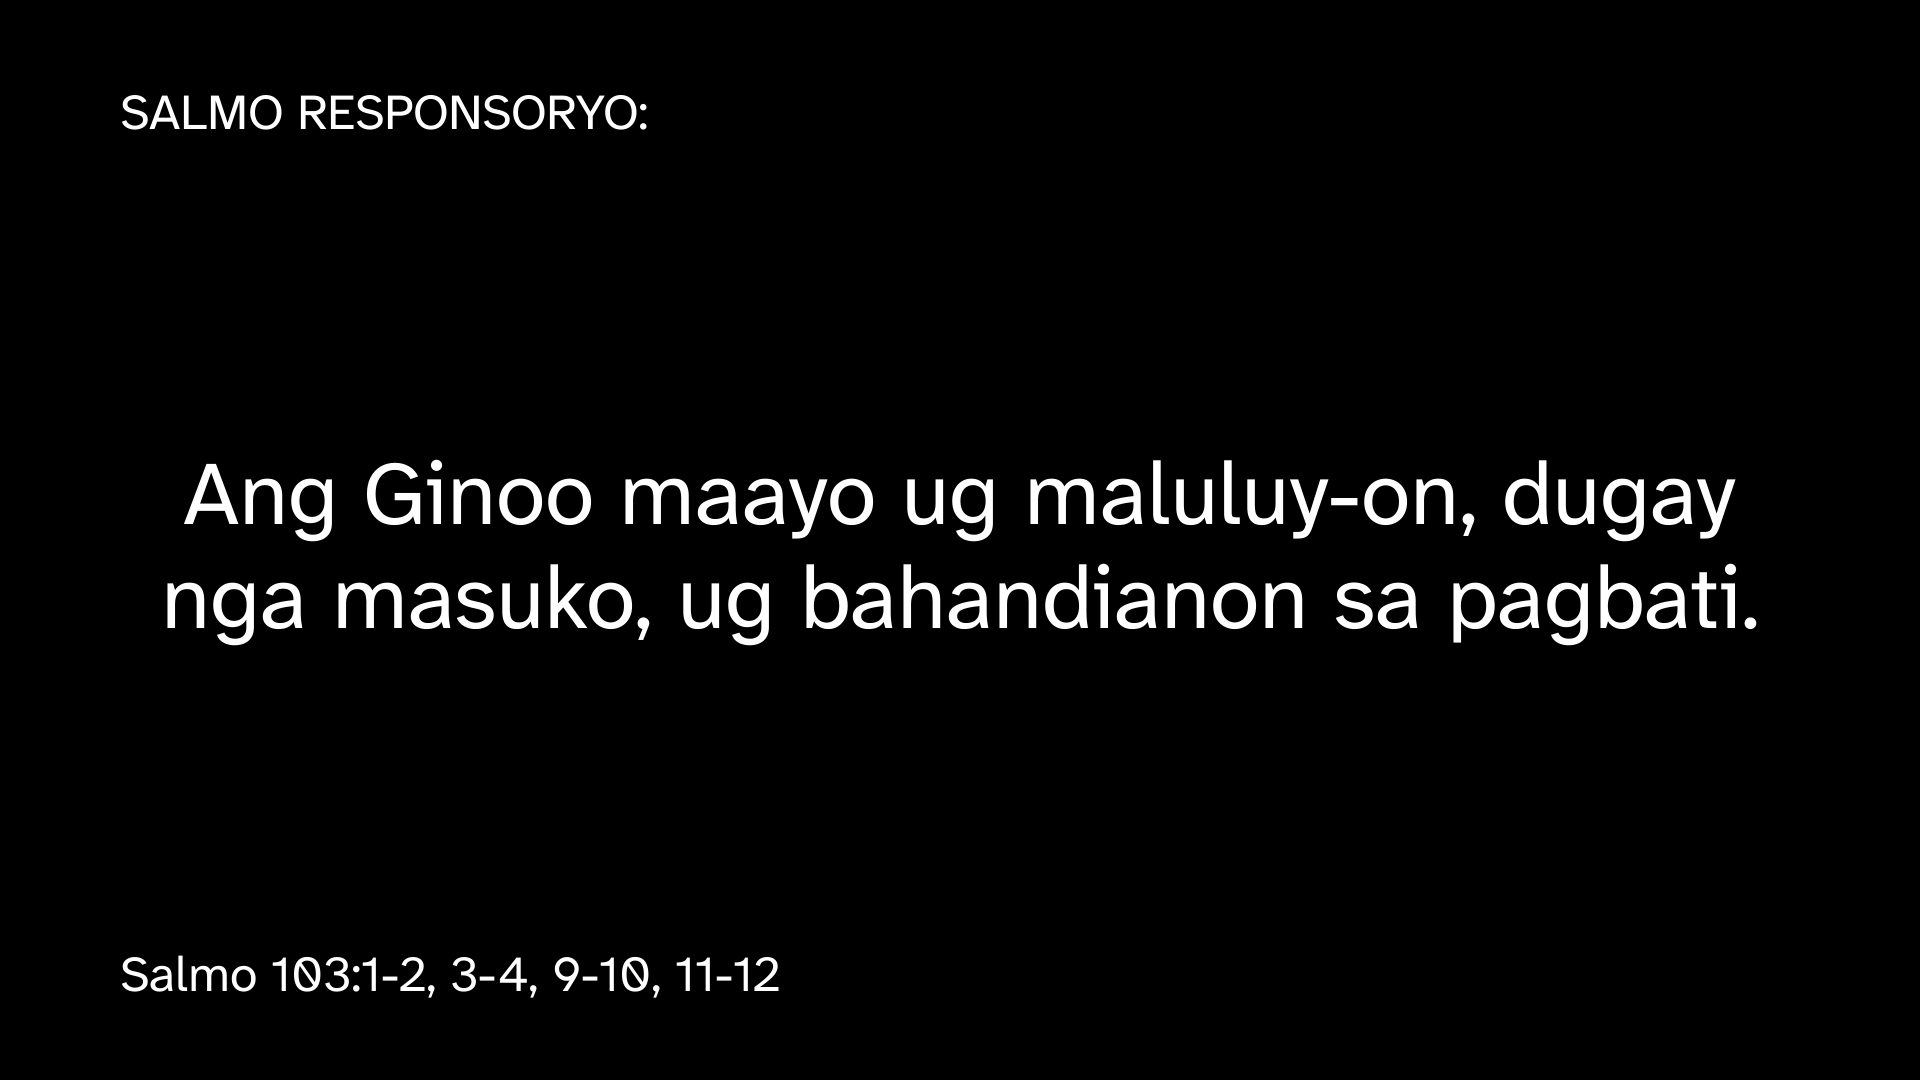
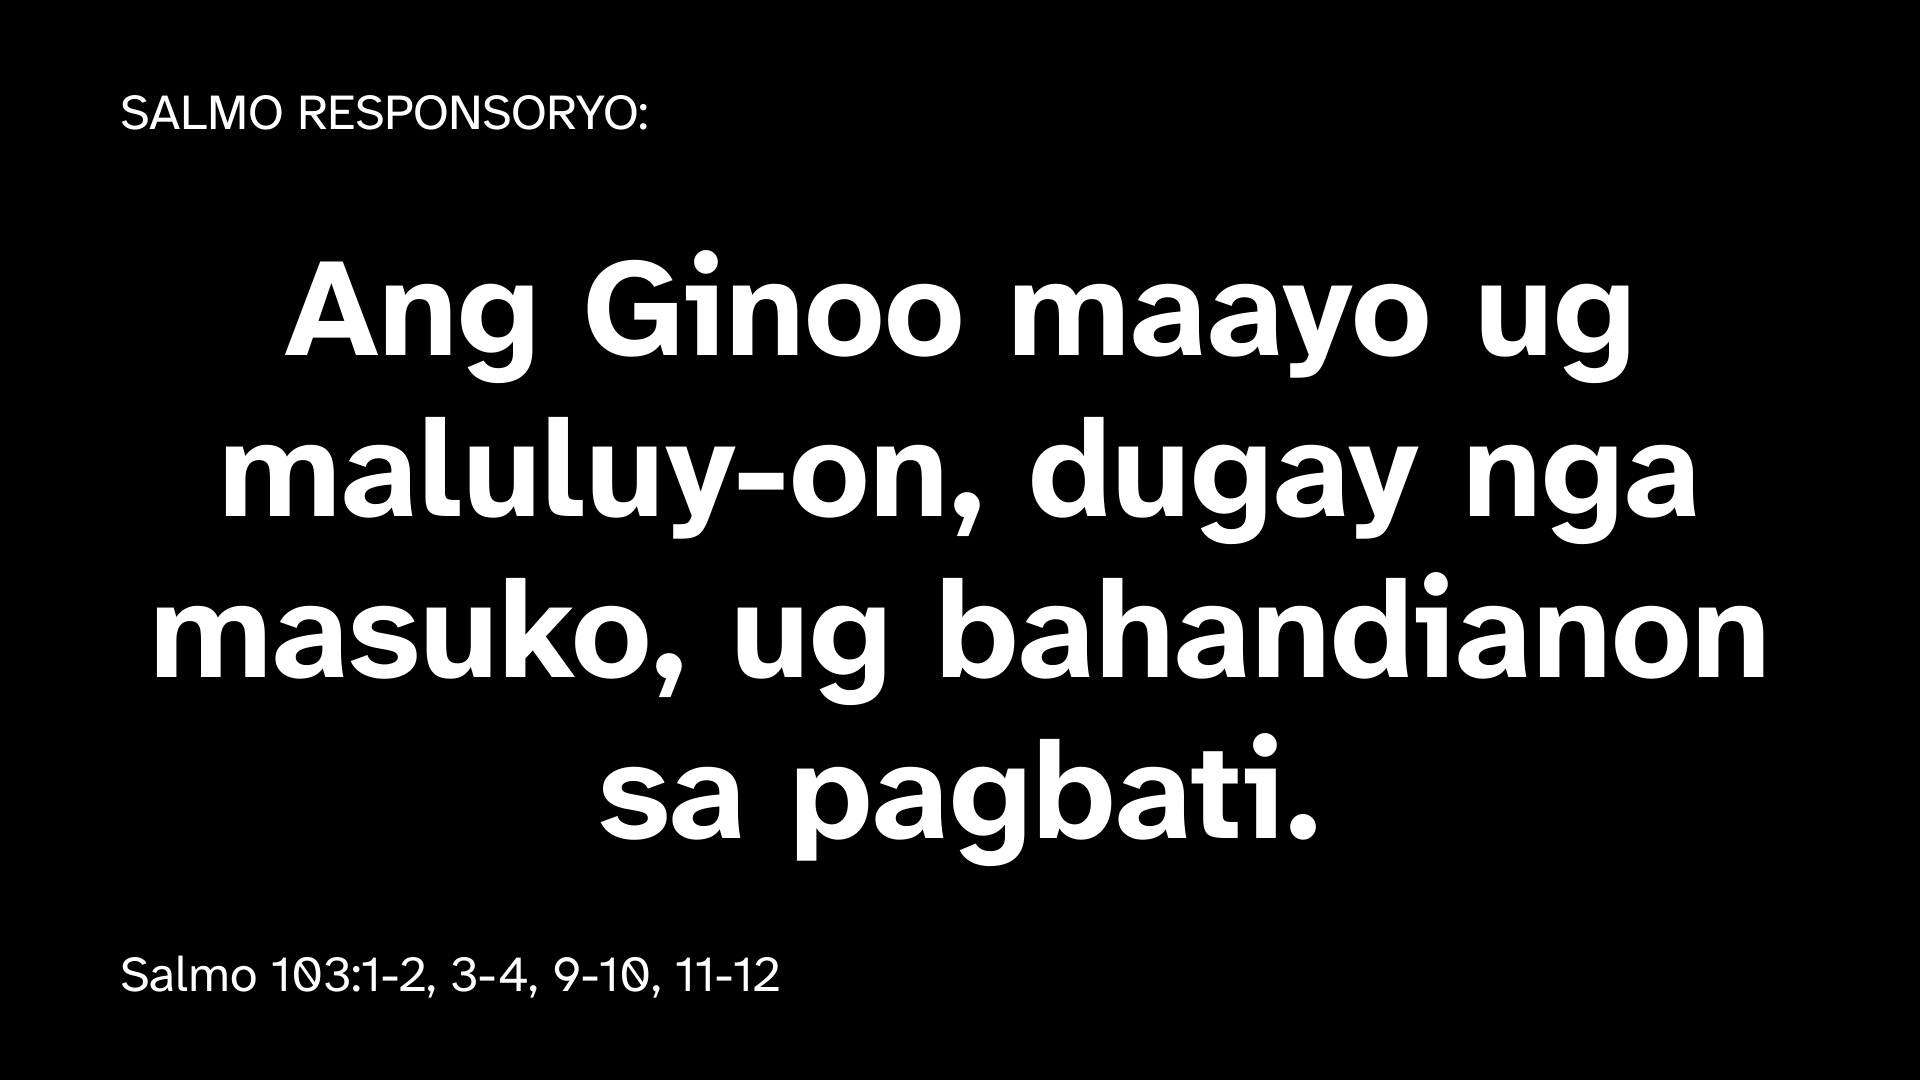
docs(qualification): recapture T0.4 gallery candidate
Re-run the lab gallery capture after the Response weight, Song title
shaping, and regular-line raster fixes; sync the copied provenance table.

diff --git a/docs/qualification/T0.4-GALLERY-CANDIDATE.md b/docs/qualification/T0.4-GALLERY-CANDIDATE.md
@@ -117,14 +117,14 @@ scale, `F5` the target density; diagnostics ride beside the scaled frame.
 | lyrics-overflow-warning | Lyrics | `Verse` | 20/20 | 0 | body content needs 2080px but the body zone offers 862px at the approved minimum; split before shrinking<br>lyric body carries 20 phrases against a two-phrase target; split before shrinking<br>lyric body has 20 rendered lines against a four-line ceiling; split before shrinking | `gallery-candidate/lyrics-overflow-warning.png` |
 | lyrics-punctuation | Lyrics | `Verse` | 1/2 | 0 | none | `gallery-candidate/lyrics-punctuation.png` |
 | lyrics-tagalog-three-line | Lyrics | `Taludtod` | 3/3 | 0 | lyric body carries 3 phrases against a two-phrase target; split before shrinking | `gallery-candidate/lyrics-tagalog-three-line.png` |
-| psalm-cebuano | Psalm | `SALMO RESPONSORYO:` | 1/2 | 1 | none | `gallery-candidate/psalm-cebuano.png` |
-| psalm-header-empty | Psalm | empty | 1/2 | 1 | none | `gallery-candidate/psalm-header-empty.png` |
+| psalm-cebuano | Psalm | `SALMO RESPONSORYO:` | 1/4 | 1 | none | `gallery-candidate/psalm-cebuano.png` |
+| psalm-header-empty | Psalm | empty | 1/4 | 1 | none | `gallery-candidate/psalm-header-empty.png` |
 | reading-identification-mateo | ReadingIdentification | absent | 1/3 | 1 | none | `gallery-candidate/reading-identification-mateo.png` |
 | reading-identification-roma | ReadingIdentification | absent | 1/3 | 1 | none | `gallery-candidate/reading-identification-roma.png` |
 | reading-identification | ReadingIdentification | absent | 1/2 | 1 | none | `gallery-candidate/reading-identification.png` |
 | reading-passage-cebuano | ReadingPassage | absent | 1/2 | 1 | none | `gallery-candidate/reading-passage-cebuano.png` |
 | reading-passage-english | ReadingPassage | absent | 1/2 | 1 | none | `gallery-candidate/reading-passage-english.png` |
-| response-cebuano | Response | `TUBAG:` | 1/1 | 0 | none | `gallery-candidate/response-cebuano.png` |
+| response-cebuano | Response | `TUBAG:` | 1/2 | 0 | none | `gallery-candidate/response-cebuano.png` |
 | response-header-absent | Response | absent | 1/1 | 0 | none | `gallery-candidate/response-header-absent.png` |
 | response-header-empty | Response | empty | 1/1 | 0 | none | `gallery-candidate/response-header-empty.png` |
 | song-identification | SongIdentification | absent | 1/0 | 3 | none | `gallery-candidate/song-identification.png` |

diff --git a/docs/qualification/gallery-candidate/capture-rows.md b/docs/qualification/gallery-candidate/capture-rows.md
@@ -23,14 +23,14 @@
 | lyrics-overflow-warning | Lyrics | `Verse` | 20/20 | 0 | body content needs 2080px but the body zone offers 862px at the approved minimum; split before shrinking<br>lyric body carries 20 phrases against a two-phrase target; split before shrinking<br>lyric body has 20 rendered lines against a four-line ceiling; split before shrinking | `gallery-candidate/lyrics-overflow-warning.png` |
 | lyrics-punctuation | Lyrics | `Verse` | 1/2 | 0 | none | `gallery-candidate/lyrics-punctuation.png` |
 | lyrics-tagalog-three-line | Lyrics | `Taludtod` | 3/3 | 0 | lyric body carries 3 phrases against a two-phrase target; split before shrinking | `gallery-candidate/lyrics-tagalog-three-line.png` |
-| psalm-cebuano | Psalm | `SALMO RESPONSORYO:` | 1/2 | 1 | none | `gallery-candidate/psalm-cebuano.png` |
-| psalm-header-empty | Psalm | empty | 1/2 | 1 | none | `gallery-candidate/psalm-header-empty.png` |
+| psalm-cebuano | Psalm | `SALMO RESPONSORYO:` | 1/4 | 1 | none | `gallery-candidate/psalm-cebuano.png` |
+| psalm-header-empty | Psalm | empty | 1/4 | 1 | none | `gallery-candidate/psalm-header-empty.png` |
 | reading-identification-mateo | ReadingIdentification | absent | 1/3 | 1 | none | `gallery-candidate/reading-identification-mateo.png` |
 | reading-identification-roma | ReadingIdentification | absent | 1/3 | 1 | none | `gallery-candidate/reading-identification-roma.png` |
 | reading-identification | ReadingIdentification | absent | 1/2 | 1 | none | `gallery-candidate/reading-identification.png` |
 | reading-passage-cebuano | ReadingPassage | absent | 1/2 | 1 | none | `gallery-candidate/reading-passage-cebuano.png` |
 | reading-passage-english | ReadingPassage | absent | 1/2 | 1 | none | `gallery-candidate/reading-passage-english.png` |
-| response-cebuano | Response | `TUBAG:` | 1/1 | 0 | none | `gallery-candidate/response-cebuano.png` |
+| response-cebuano | Response | `TUBAG:` | 1/2 | 0 | none | `gallery-candidate/response-cebuano.png` |
 | response-header-absent | Response | absent | 1/1 | 0 | none | `gallery-candidate/response-header-absent.png` |
 | response-header-empty | Response | empty | 1/1 | 0 | none | `gallery-candidate/response-header-empty.png` |
 | song-identification | SongIdentification | absent | 1/0 | 3 | none | `gallery-candidate/song-identification.png` |
